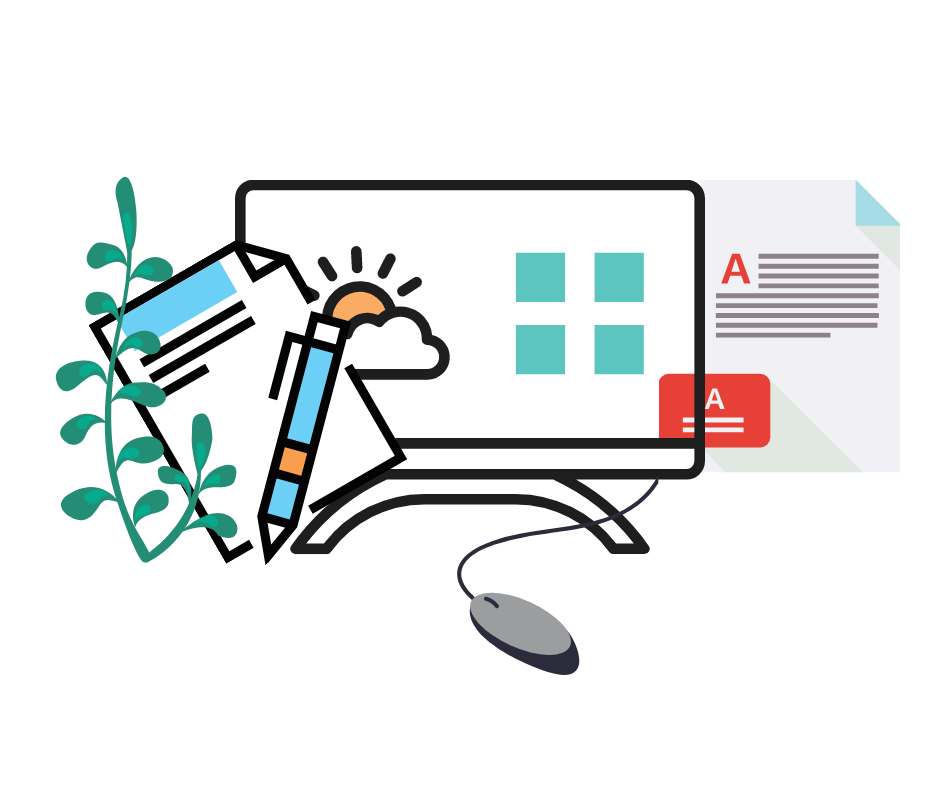
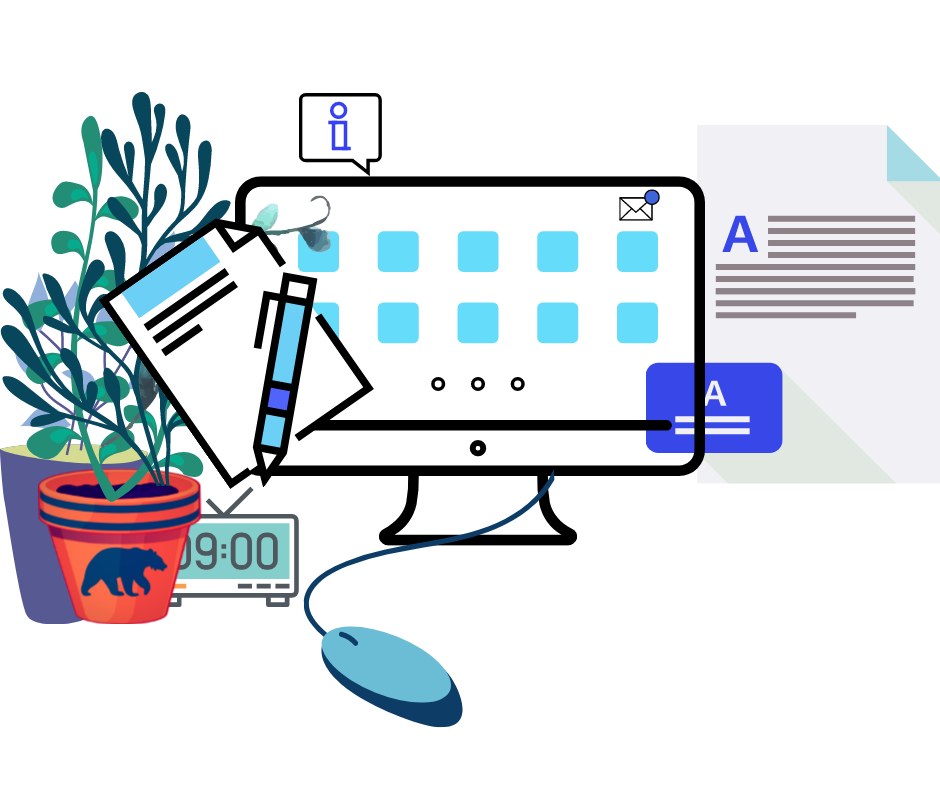
Added Background and Design To pg 1

Changed region(s): [[0.0, 0.0914, 1.0, 0.7919], [0.3394, 0.7919, 0.4936, 0.9442], [0.4936, 0.731, 0.617, 0.8528]]

diff --git a/src/components/IntroPage.js b/src/components/IntroPage.js
@@ -1,13 +1,13 @@
 import React from "react";
-import image1 from "./images/Icon.png";
+import image1 from "./images/icon.png";
 import image2 from "./images/Comp.png";
 import image3 from "./images/proffesionals.png";
 import image4 from "./images/interview.png";
 import image5 from "./images/footer.png";
-
+import image6 from "./images/growth.png";
 const Header = () => {
   return (
-    <div className="body">
+    <body className="BgColor">
       <div>
         <link
           rel="stylesheet"
@@ -32,20 +32,33 @@ const Header = () => {
           </div>
         </div>
 
-        <div>
+        <div className="Icon-allign ">
+          <img className="imageDiv" src={image1} alt="icon" />
+        </div>
+        <div className="White-font">
           <div>
-            <img className="Icon-allign" src={image1} width="400" alt="icon" />
+            <h1 className="Welcome-head Times-font Clear-Head  ">
+              <b>Star Resume</b>
+            </h1>
+          </div>
+          <div className="ParaGraphs Times-font padding">
+            <p>
+              Bored of lame websites asking for money ...? Want something new?
+              Try this....A Quick and Easy Way to Create Your Professional
+              Resume. 30+ Professional Resume Templates Choose from over thirty
+              modern and professional templates. All of which can be customized
+              to your liking. Fast and Easy to Use Our resume builder lets you
+              easily and quickly create a resume using our resume wizard.
+            </p>
           </div>
         </div>
       </div>
-
-      <div className="Times-font">
-        <h1 className="Welcome-head padding ">
-          <b>Resume Builder</b>
-        </h1>
-
+      <div className="bg1 space">
+        <div className="gapsDiv ">
+          <img src={image2} alt="decorative " />
+        </div>
         <div>
-          <div className="gapsDiv ">
+          <div className="gapsDiv bg2 space ">
             <button
               className=" submit-button btn-primary buildResumeButton Position-Static "
               onClick={(event) => (window.location.href = "/build")}
@@ -54,43 +67,71 @@ const Header = () => {
             </button>
           </div>
 
-          <div className="gapsDiv">
-            <img src={image2} alt="decorative " />
-          </div>
-
-          <div>
+          <div className="ParaGraphs White-font">
             <h1>
               <b>
                 A Free, Quick and Easy Way to Create Your Professional Resume.
               </b>
             </h1>
             <p>
-              <p>Chose and Design Templates </p>
+              <p>
+                Need help building your resume? By analyzing thousands of
+                winning resumes, we were able to build guides to help you build
+                the perfect resume for the job you want. We’re adding more and
+                more examples and guides every week in order to have the most
+                comprehensive directory of resume examples. Click below to check
+                out some of our featured resume examples along with tips for
+                making your resume stand out!{" "}
+              </p>
             </p>
           </div>
+        </div>
+        <div className="gapsDiv">
+          <img src={image3} alt="office" />
+        </div>
 
-          <div className="gapsDiv">
-            <img src={image3} alt="office" />
-          </div>
-
-          <div>
-            <h1>
-              <b>Resume Examples</b>
-            </h1>
+        <div className="ParaGraphs White-font">
+          <h1>
+            <b>Resume Examples</b>
+          </h1>
+          <p>
             <p>
-              <p>Examples with pic</p>
+              Need help building your resume? By analyzing thousands of winning
+              resumes, we were able to build guides to help you build the
+              perfect resume for the job you want. We’re adding more and more
+              examples and guides every week in order to have the most
+              comprehensive directory of resume examples. Click below to check
+              out some of our featured resume examples along with tips for
+              making your resume stand out!{" "}
             </p>
-          </div>
-          <div className="gapsDiv">
-            <img src={image4} alt="interview-ace " />
-          </div>
+          </p>
+        </div>
+        <div className="gapsDiv">
+          <img src={image4} alt="interview-ace " />
+        </div>
+        <div className="ParaGraphs">
+          <h1>
+            <b>Let us be a part of Your Success!</b>
+          </h1>
+
+          <p>
+            Need help building your resume? By analyzing thousands of winning
+            resumes, we were able to build guides to help you build the perfect
+            resume for the job you want. We’re adding more and more examples and
+            guides every week in order to have the most comprehensive directory
+            of resume examples. Click below to check out some of our featured
+            resume examples along with tips for making your resume stand out!{" "}
+          </p>
+        </div>
+        <div className="gapsDiv">
+          <img src={image6} alt="decorative " />
         </div>
       </div>
 
       <div className="footer">
-        <img src={image5} width="300" alt="footer" />
+        <img src={image5} width="200" alt="footer" />
       </div>
-    </div>
+    </body>
   );
 };
 export default Header;

diff --git a/src/App.css b/src/App.css
@@ -18,14 +18,14 @@
   
 }
 .Position-Static{
-  position:sticky;
- left:auto;
- transform: matrix(-50%,-50%);
+  position:static;
 }
 .gapsDiv {
+  padding: 20px;
+}
+.imageDiv{
+  max-width: 300px;
   
-  margin: 30px;
-  padding: 30px;
 }
 
 .Times-font{
@@ -33,7 +33,12 @@
 }
 
 .Icon-allign{
-  float: left
+  margin-top: 0;
+  float:inline-start
+
+}
+.Clear-Head{
+  clear: both;
 }
 .padding{
   padding: 1em
@@ -44,21 +49,49 @@
   left: 0;
   bottom: 0;
   width: 100%;
+  height: 100%;
   background-color: rgb(185, 219, 223);
   color: rgb(8, 7, 7);
   
   text-align: left;
 }
 .Welcome-head{
-  font-size: 80px;
+  font-size: 60px;
+  margin-left: auto;
+  min-width: 800px;
 }
-
+.ParaGraphs{
+  font-size: 20px;
+  margin-left: auto;
+  margin-right:auto ;
+  max-width: 900px;
+}
+.BgColor{
+  background-color: #001220;
+}
+.White-font{
+  color: white;
+}
 /*navbar*/
-
+.space{
+  aspect-ratio: 960/200;
+  background-repeat: no-repeat;
+  background-position: center;
+  background-size:cover;
+  
+}
+.bg1{
+  background-image: url('./components/images/bg1.svg');
+}
+.bg2{
+  background-image: url('./components/images/bg2.svg');
+}
 .navbar {
+  
   margin-left: auto;
   width: 40%;
-  background-color: rgb(255, 255, 255);
+  min-width: 500px;
+  background-color:#001220;
   overflow: auto;
   
 }
@@ -68,8 +101,7 @@
   float: right;
   text-align: center;
   padding: 1px;
-  color: rgb(24, 1, 1);
-  text-decoration: underline;
+  color: rgb(255, 255, 255);
   font-size: 17px;
   font-weight: bold;
 }
@@ -77,11 +109,14 @@
 /* Navbar links on mouse-over */
 .navbar a:hover {
   background-color: rgb(83, 193, 236);
+  border-radius: 20px;
+  box-shadow: blue;
 }
 
 /* Current/active navbar link */
 .active {
-  background-color: #8ebad8;
+  background-color: #f307c0;
+  border-radius: 20px;
 }
 
 /* Add responsiveness - will automatically display the navbar vertically instead of horizontally on screens less than 500 pixels */
